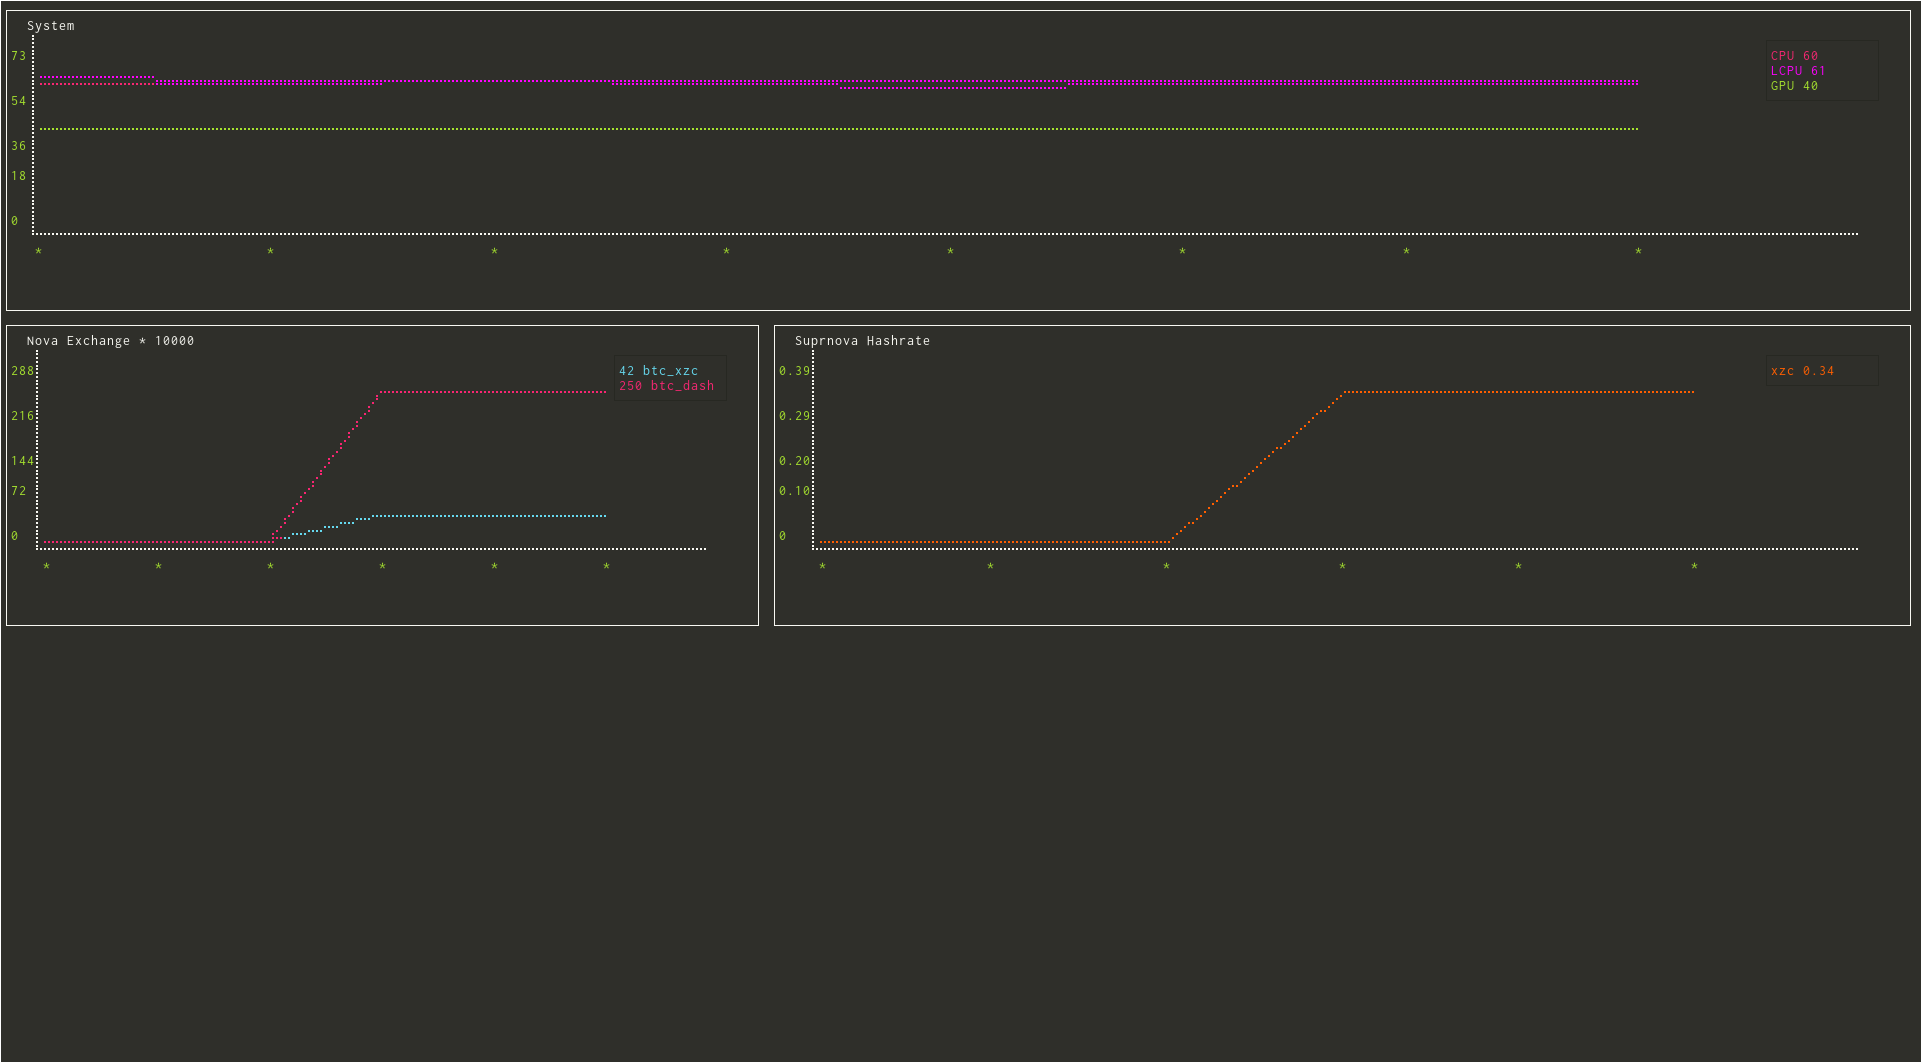
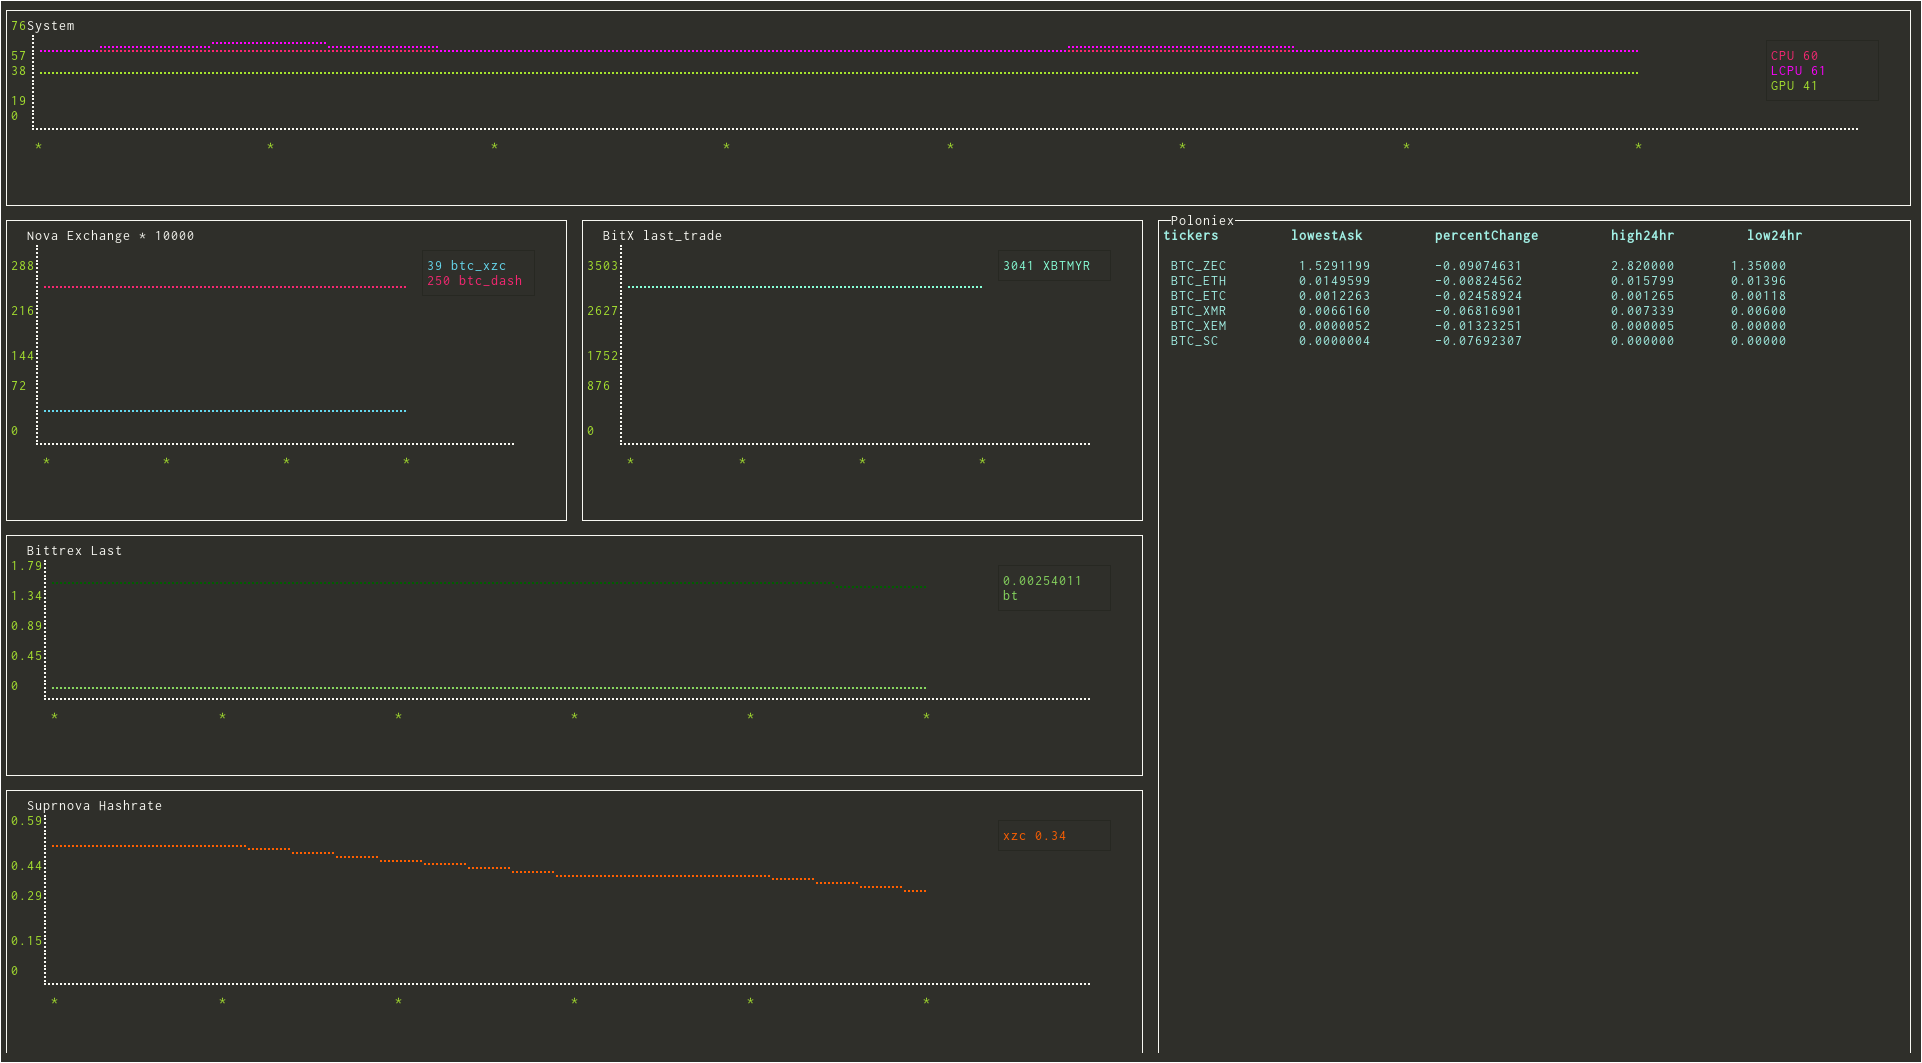
[DOC] PoloniexComponent, TODO, & screenshot

diff --git a/README.md b/README.md
@@ -117,9 +117,20 @@ Bittrex latest ticker data
 }
 ```
 
+## PoloniexComponent
+Poloniex price data
+```
+{
+    "table": ..., // blessed-contrib table settings
+    "interval": 10, // Refresh interval
+    "filter": ["BTC_ZEC", "BTC_ETH", "BTC_ETC", "BTC_XMR", "BTC_XEM", "BTC_SC"], // Ticker codes
+    "watch": ["lowestAsk", "percentChange", "high24hr", "low24hr"] // Columns to display
+}
+```
+
 # todo
-* Poloniex exchange rate
 * Suprnova earnings graph
+* Override graphs
 
 # disclaimer
 All rights reserved to named companies.
